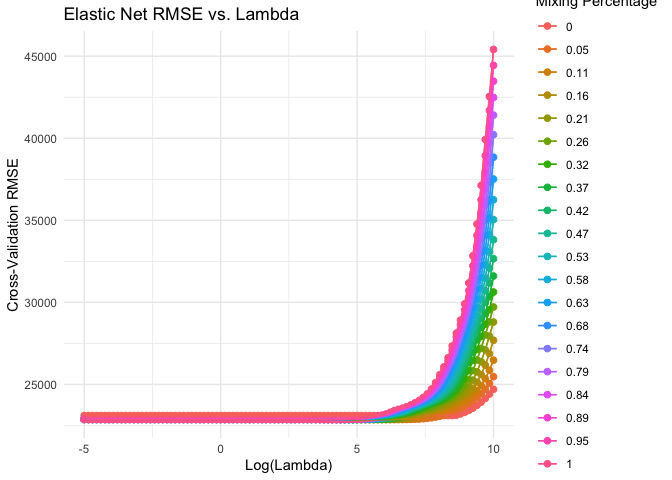
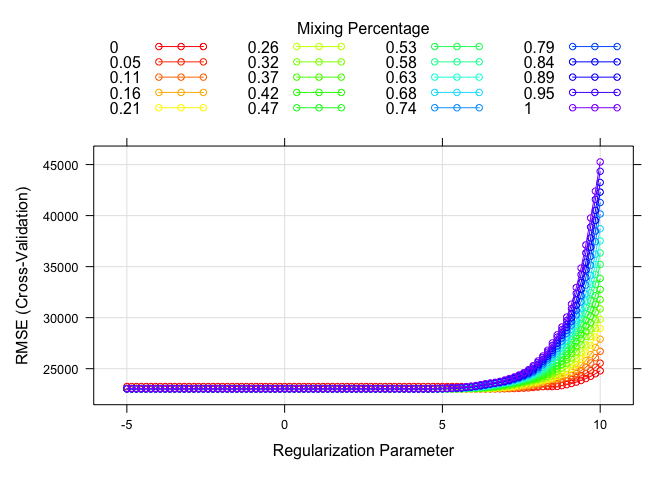
save

diff --git a/Data-Science-II,-HW1.md b/Data-Science-II,-HW1.md
@@ -109,7 +109,7 @@ Data Science II, HW1
 
 - **Selected Tuning Parameter for Lasso** (optimal λ): 38
 
-  - **Corresponding Test MSE**: 37.9536
+  - **Corresponding Test RMSE**: 6.1606
 
 - **\#of Predictors associates with 1SE**: 36
 
@@ -120,14 +120,27 @@ Data Science II, HW1
   ENet.fit <- train( Sale_Price ~ ., 
                      data=train,
                      method="glmnet", 
-                     tuneGrid= expand.grid(alpha=seq(0,1,length=20), lambda=lambda_grid),
+                     standardize = TRUE,
+                     tuneGrid= expand.grid(alpha=round(seq(0,1,length=20), 2),
+                                           lambda=lambda_grid),
                      trControl = TC
                     )
+  
+  myPar = list(superpose.symbol = list(col=rainbow(25)),
+               superpose.line   = list(col=rainbow(25)))
+  plot(ENet.fit, par.settings=myPar, xTrans=log)
+```
+
+![](Data-Science-II,-HW1_files/figure-gfm/unnamed-chunk-2-1.png)<!-- -->
+
+``` r
+  ENet_RMSE <- sqrt(mean((test$Sale_Price - predict(ENet.fit, newdata = test))^2))
 ```
 
 - **Optimal Tuning Parameter given by:**
-  - α = 0.0526
+  - α = 0.05
   - λ = 580.3529
+- **Test Error RMSE:** 20939.7
 
 ### Part C
 
